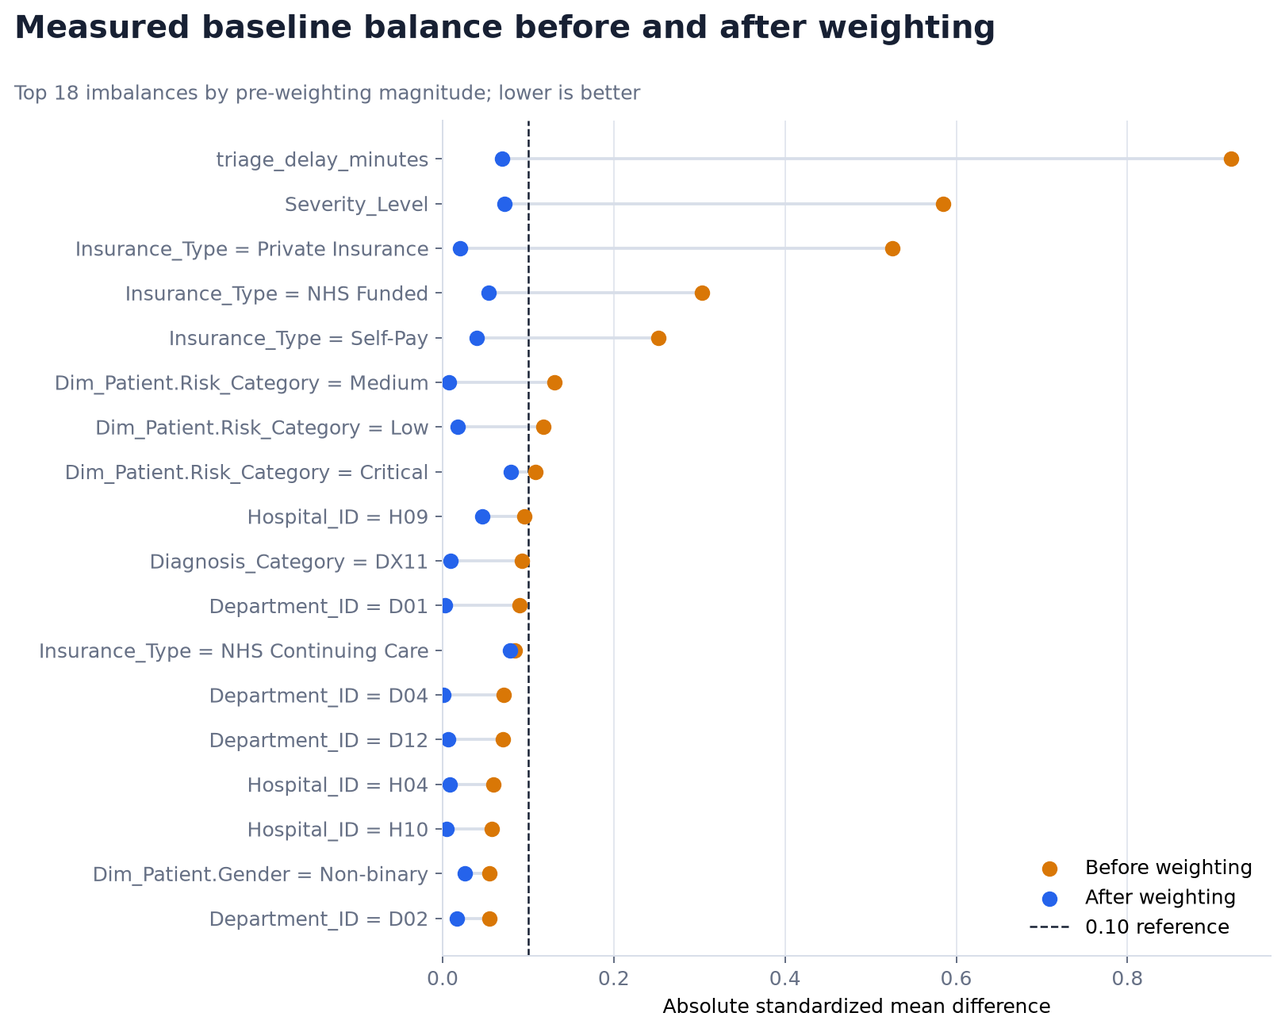
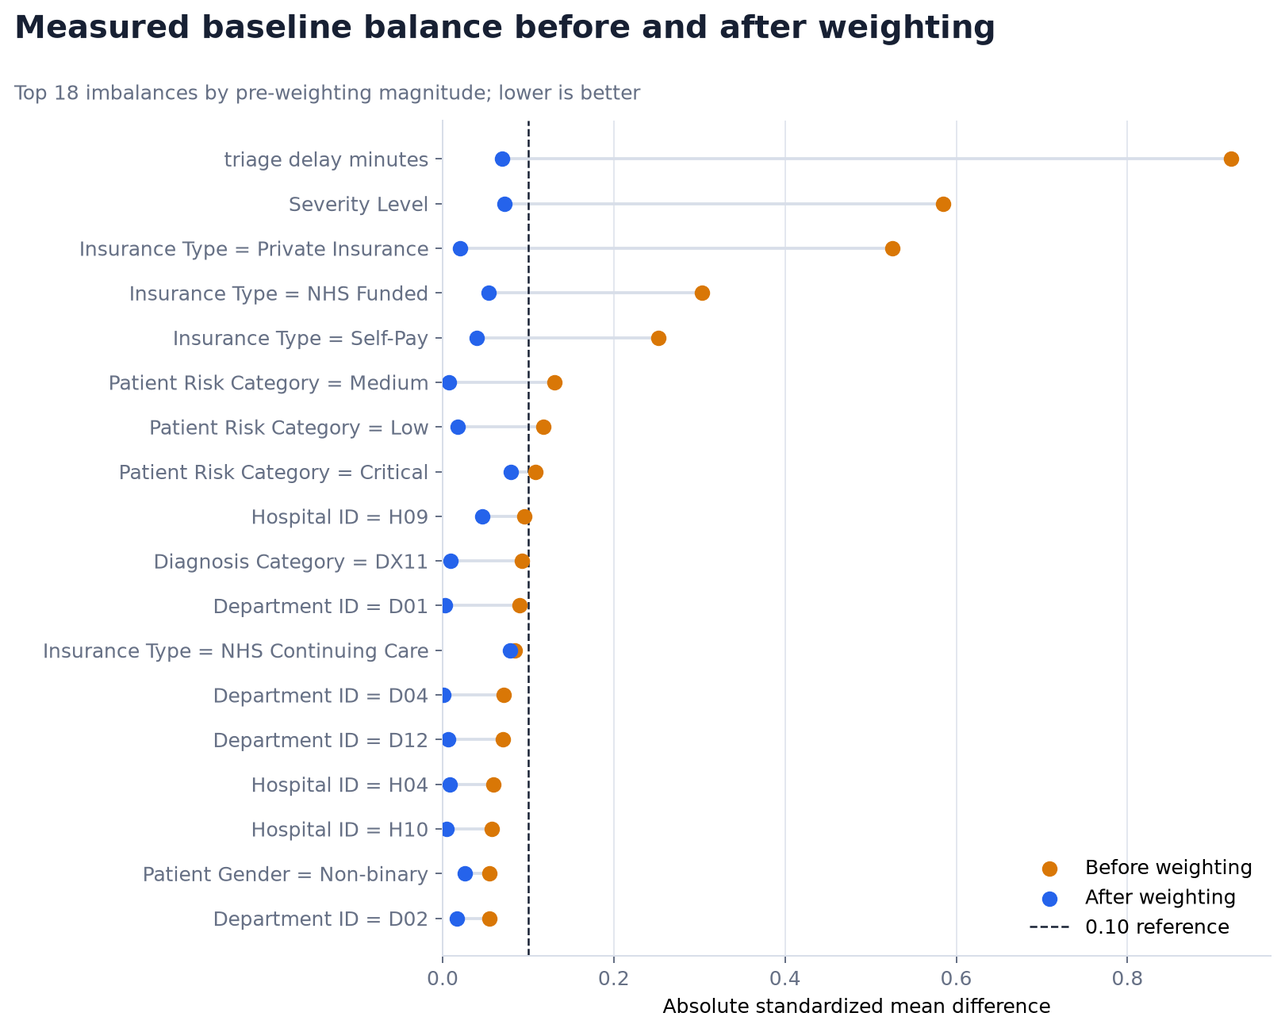
Present findings with an SCQA stakeholder story
Restructure the README as an answer-first stakeholder brief and add improved, reproducible visual evidence.

diff --git a/analysis.py b/analysis.py
@@ -412,6 +412,102 @@ def plot_story_overview(data: pd.DataFrame, cohort: pd.DataFrame, threshold: int
     plt.close(figure)
 
 
+def plot_severity_mechanism(data: pd.DataFrame, threshold: int, output_path: Path) -> None:
+    """Show why the pooled delay comparison is confounded by severity."""
+    frame = data.copy()
+    frame["delay_group"] = np.where(
+        frame["Treatment_Delay_Minutes"].ge(threshold),
+        f"≥ {threshold} min",
+        f"< {threshold} min",
+    )
+    delay_order = [f"< {threshold} min", f"≥ {threshold} min"]
+    severity_order = sorted(frame["Severity_Level"].dropna().unique())
+
+    mortality = (
+        frame.groupby("Severity_Level")["Mortality_Flag"]
+        .mean()
+        .mul(100)
+        .reindex(severity_order)
+    )
+    severity_mix = (
+        frame.groupby(["delay_group", "Severity_Level"], observed=True)
+        .size()
+        .unstack(fill_value=0)
+        .reindex(index=delay_order, columns=severity_order, fill_value=0)
+    )
+    severity_mix = severity_mix.div(severity_mix.sum(axis=1), axis=0).mul(100)
+
+    severity_colors = ["#DBEAFE", "#BFDBFE", "#93C5FD", "#60A5FA", "#2563EB"]
+    figure, axes = plt.subplots(1, 2, figsize=(11, 5.6), gridspec_kw={"width_ratios": [0.9, 1.25]})
+
+    bars = axes[0].bar(
+        np.arange(len(severity_order)),
+        mortality.to_numpy(),
+        color=BLUE,
+        edgecolor=INK,
+        linewidth=0.5,
+    )
+    axes[0].set_xticks(np.arange(len(severity_order)), [str(int(value)) for value in severity_order])
+    axes[0].set_xlabel("Severity level")
+    axes[0].set_ylabel("Observed mortality rate (%)")
+    axes[0].set_ylim(0, mortality.max() * 1.25)
+    for bar, value in zip(bars, mortality):
+        axes[0].text(
+            bar.get_x() + bar.get_width() / 2,
+            value + mortality.max() * 0.025,
+            f"{value:.1f}%",
+            ha="center",
+            fontsize=9,
+            color=INK,
+        )
+    axes[0].set_title("Mortality by severity", loc="left", fontsize=12, fontweight="bold")
+    style_axis(axes[0])
+
+    bottom = np.zeros(len(delay_order))
+    for level, color in zip(severity_order, severity_colors):
+        values = severity_mix[level].to_numpy()
+        bars = axes[1].bar(
+            np.arange(len(delay_order)),
+            values,
+            bottom=bottom,
+            label=f"Level {int(level)}",
+            color=color,
+            edgecolor="white",
+            linewidth=0.7,
+        )
+        for bar, value, base in zip(bars, values, bottom):
+            if value >= 7:
+                axes[1].text(
+                    bar.get_x() + bar.get_width() / 2,
+                    base + value / 2,
+                    f"{value:.0f}%",
+                    ha="center",
+                    va="center",
+                    fontsize=8,
+                    color=INK if level <= 3 else "white",
+                    fontweight="bold",
+                )
+        bottom += values
+
+    axes[1].set_xticks(np.arange(len(delay_order)), delay_order)
+    axes[1].set_xlabel("Treatment-delay group")
+    axes[1].set_ylabel("Share of visits within group (%)")
+    axes[1].set_ylim(0, 100)
+    axes[1].set_title("Severity composition by delay", loc="left", fontsize=12, fontweight="bold")
+    axes[1].legend(title="Severity", ncol=5, frameon=False, loc="upper center", bbox_to_anchor=(0.5, 1.00), fontsize=8)
+    style_axis(axes[1])
+    axes[1].grid(axis="x", visible=False)
+
+    add_figure_title(
+        figure,
+        "Severity, mortality, and treatment timing",
+        f"All {len(frame):,} visits; higher-severity visits have higher mortality and are concentrated below {threshold} minutes",
+    )
+    figure.subplots_adjust(top=0.78, left=0.08, right=0.98, bottom=0.13, wspace=0.30)
+    figure.savefig(output_path, dpi=180, bbox_inches="tight", facecolor="white")
+    plt.close(figure)
+
+
 def plot_balance(balance: pd.DataFrame, output_path: Path, top_n: int = 18) -> None:
     display = balance.head(top_n).sort_values("abs_smd_before", ascending=True)
     figure, axis = plt.subplots(figsize=(10, 7.5))
@@ -420,7 +516,12 @@ def plot_balance(balance: pd.DataFrame, output_path: Path, top_n: int = 18) -> N
     axis.scatter(display["abs_smd_before"], y, color=ORANGE, s=46, label="Before weighting", zorder=3)
     axis.scatter(display["abs_smd_after"], y, color=BLUE, s=46, label="After weighting", zorder=3)
     axis.axvline(0.10, color=INK, linewidth=1, linestyle="--", label="0.10 reference")
-    axis.set_yticks(y, display["feature"])
+    readable_labels = (
+        display["feature"]
+        .str.replace("Dim_Patient.", "Patient ", regex=False)
+        .str.replace("_", " ", regex=False)
+    )
+    axis.set_yticks(y, readable_labels)
     axis.set_xlabel("Absolute standardized mean difference")
     axis.set_xlim(left=0)
     axis.legend(frameon=False, loc="lower right")
@@ -438,7 +539,7 @@ def plot_balance(balance: pd.DataFrame, output_path: Path, top_n: int = 18) -> N
 
 
 def plot_effect(primary: Estimate, output_path: Path) -> None:
-    labels = ["Crude risk difference", "Cross-fitted AIPW"]
+    labels = ["Crude risk difference", "Adjusted estimate (AIPW)"]
     values = np.array([primary.crude_risk_difference, primary.adjusted_risk_difference]) * 100
     low = np.array([np.nan, primary.ci_low]) * 100
     high = np.array([np.nan, primary.ci_high]) * 100
@@ -469,7 +570,7 @@ def plot_effect(primary: Estimate, output_path: Path) -> None:
     add_figure_title(
         figure,
         "Mortality risk difference in low-severity visits",
-        f"High delay is ≥{primary.threshold_minutes} minutes; AIPW interval uses patient-clustered influence curves",
+        f"Severity levels 1–3; high delay is ≥{primary.threshold_minutes} minutes; horizontal interval is the 95% CI",
     )
     figure.subplots_adjust(top=0.82, left=0.27, right=0.96, bottom=0.20)
     figure.savefig(output_path, dpi=180, bbox_inches="tight", facecolor="white")
@@ -607,6 +708,7 @@ def run_analysis(
     )
 
     plot_story_overview(data, cohort, threshold, figures_dir / "01_crude_mortality_reversal.png")
+    plot_severity_mechanism(data, threshold, figures_dir / "02_severity_mechanism.png")
     plot_balance(primary_balance, figures_dir / "02_covariate_balance.png")
     plot_effect(primary, figures_dir / "03_effect_estimate.png")
     plot_sensitivity(estimates, figures_dir / "04_threshold_sensitivity.png")

diff --git a/README.md b/README.md
@@ -1,63 +1,120 @@
-# Treatment delay and mortality in low-severity ED visits
+# Long treatment delays deserve attention—but 160 minutes is not a proven mortality threshold
 
-An observational causal-inference project that asks a deceptively simple question:
+**Stakeholder brief | 9,994 emergency-department visits | January 2024–December 2025**
 
-> Among emergency-department visits with severity levels 1–3, how does mortality differ when treatment starts at least 160 minutes after triage rather than sooner?
+## Executive Summary
 
-![Crude mortality reverses after restricting to low-severity visits](figures/01_crude_mortality_reversal.png)
+- **The operational signal warrants attention.** Among 5,216 low-severity visits, the adjusted analysis estimates **0.66 additional deaths per 100 visits** when treatment begins at or after 160 minutes rather than sooner.
+- **The evidence is not conclusive.** The 95% confidence interval ranges from **0.89 fewer to 2.22 additional deaths per 100 visits**, so the data remain compatible with no effect.
+- **The raw dashboard comparison is misleading.** Across all visits, longer delay appears safer because the sickest patients are treated sooner. This is a practical example of Simpson's paradox.
+- **Recommended decision:** monitor and reduce avoidable low-severity delays while validating the finding with better operational data. Do **not** treat 160 minutes as a clinically proven cutoff or use this analysis alone to change patient care.
 
-## The story in one minute
+## Situation — ED leaders need to understand whether long waits create avoidable risk
 
-The full dataset appears to tell a reassuring story: mortality is lower in the high-delay group (2.67% versus 3.40%). That comparison is misleading because patients treated sooner are much more severely ill.
+Treatment cannot always begin immediately, and emergency departments must prioritize the most urgent patients. The decision problem is therefore not “should every patient be treated in arrival order?” It is narrower:
 
-After restricting the question to 5,216 low-severity visits, the crude relationship reverses: mortality is 2.40% at or above 160 minutes versus 1.85% below 160 minutes. A cross-fitted augmented inverse probability weighted (AIPW) model estimates an adjusted risk difference of **+0.66 percentage points**, with a **95% confidence interval from −0.89 to +2.22 points**.
+> For patients already classified as low severity, is a long treatment delay associated with higher mortality after accounting for the factors that influence who waits?
 
-The point estimate is compatible with higher mortality under longer delay, but the interval also includes no effect and modest benefit. The evidence is therefore **hypothesis-generating, not conclusive**.
+The dataset covers 9,994 visits across 2024 and 2025. The primary analysis focuses on 5,216 visits at severity levels 1–3 and compares treatment starting **before 160 minutes** with treatment starting **at or after 160 minutes**. The 160-minute threshold is an operational scenario, not a validated clinical standard.
 
-## Why this project matters
+## Complication — the pooled average tells the wrong story
 
-This is a practical example of Simpson's paradox and the limits of observational causal inference. When deliberately assigning harmful delays would make an RCT unethical or impractical, causal methods can emulate a clearly defined intervention contrast from observed data. They do not recreate randomization: the result remains conditional on measured confounding, overlap, consistency, and correct time ordering.
+Across all visits, mortality appears *lower* in the high-delay group: **2.67% versus 3.40%**. After defining the low-severity population, the relationship reverses: mortality is **2.40% with high delay versus 1.85% with lower delay**.
 
-The most valuable result is not a dramatic causal claim; it is a transparent workflow that:
+![Observed mortality by treatment-delay group in all visits and the low-severity cohort](figures/01_crude_mortality_reversal.png)
 
-1. defines the low-severity cohort before modeling;
-2. separates pre-treatment covariates from downstream outcomes;
-3. uses propensity scores inside a doubly robust AIPW estimator;
-4. cross-fits propensity and outcome models by patient;
-5. reports balance, overlap, effective sample size, and extreme weights;
-6. keeps uncertainty and unmeasured confounding visible.
+*How to read this:* the left-hand comparison mixes patients with very different baseline risk. The right-hand comparison answers a narrower and more relevant operational question. The reversal is a warning that the overall average should not guide a delay policy.
 
-## Main results
+Severity explains much of the contradiction. Mortality rises sharply across severity levels, while visits at levels 4–5 are concentrated in the shorter-delay group. Faster treatment therefore inherits more high-risk patients, making the pooled shorter-delay mortality rate look worse.
 
-| Measure | Result |
-|---|---:|
-| Eligible visits / unique patients | 5,216 / 5,139 |
-| High-delay visits / deaths | 998 / 24 |
-| Lower-delay visits / deaths | 4,218 / 78 |
-| Crude mortality risk difference | +0.56 percentage points |
-| Adjusted AIPW risk difference | +0.66 percentage points |
-| 95% confidence interval | −0.89 to +2.22 percentage points |
-| Maximum absolute SMD, before / after weighting | 0.921 / 0.100 |
-| Propensities clipped to [0.01, 0.99] | 14 |
-| 99th percentile / maximum IPTW | 14.53 / 100.00 |
+![Mortality by severity and severity composition by treatment-delay group](figures/02_severity_mechanism.png)
 
-![Adjusted mortality risk difference](figures/03_effect_estimate.png)
+*So what:* descriptive statistics identify the bias but cannot remove it. A causal framework is needed to compare visits that were similar before treatment timing was determined.
 
-## Method
+## Question — would high delay increase mortality among comparable low-severity visits?
 
-- **Design:** observational visit-level cohort analysis covering 2024-01-01 through 2025-12-31.
-- **Population:** severity levels 1–3 with complete exposure, outcome, patient ID, and baseline covariates.
-- **Exposure:** treatment delay at or above 160 minutes versus below 160 minutes.
-- **Outcome:** in-visit mortality flag.
-- **Estimand:** average mortality risk difference in the eligible cohort.
-- **Adjustment:** cross-fitted AIPW with regularized logistic nuisance models and five patient-grouped folds.
-- **Uncertainty:** influence-curve standard error clustered by patient.
-- **Diagnostics:** standardized mean differences, propensity range and clipping, inverse-probability weight distribution, and effective sample size.
-- **Sensitivity:** the analysis is repeated at 120-, 160-, and 200-minute thresholds.
+The working hypothesis is:
 
-Start with the [storytelling notebook](notebooks/low_severity_delay_causal_analysis.ipynb) for the EDA, Simpson's paradox, RCT motivation, propensity scores, and doubly robust estimate. See [methodology.md](reports/methodology.md) for the full specification and [validation_report.md](reports/validation_report.md) for the quality review.
+> Among otherwise comparable severity 1–3 visits, starting treatment at or after 160 minutes increases in-visit mortality risk relative to starting sooner.
 
-## Reproduce the analysis
+| Decision element | Definition |
+|---|---|
+| Population | Severity levels 1–3 with complete required baseline data |
+| Exposure | Treatment delay ≥160 minutes versus <160 minutes |
+| Outcome | In-visit mortality |
+| Primary measure | Average mortality risk difference in the eligible cohort |
+| Comparison period | January 1, 2024–December 31, 2025 |
+
+An RCT would provide the strongest protection against confounding, but deliberately assigning harmful delays may be unethical or infeasible. This study instead emulates a defined intervention contrast from observational data. It cannot reproduce randomization and remains dependent on measured covariates and causal assumptions.
+
+## Evidence — adjustment preserves the risk signal, but uncertainty remains substantial
+
+### 1. Propensity weighting made the observed groups more comparable
+
+A propensity score estimates each visit's probability of experiencing high delay from information available before treatment. The analysis combines these scores with mortality outcome models in a **doubly robust AIPW estimator** and generates predictions out of sample using patient-grouped cross-fitting.
+
+Before weighting, eight measured features exceeded the conventional absolute standardized mean difference threshold of 0.10. After weighting, only one remained at that boundary; the maximum imbalance fell from **0.921 to 0.100**.
+
+![Measured baseline balance before and after propensity weighting](figures/02_covariate_balance.png)
+
+*How to read this:* dots moving toward zero indicate that high- and lower-delay visits became more comparable on measured baseline characteristics. This improves the comparison, but it cannot balance factors that were not recorded.
+
+### 2. The adjusted point estimate indicates possible harm, not proof
+
+The crude mortality difference in the low-severity cohort is **+0.56 percentage points**. After doubly robust adjustment, the estimate is **+0.66 percentage points**. The adjusted interval crosses zero: **−0.89 to +2.22 percentage points**.
+
+![Crude and adjusted mortality risk differences with uncertainty](figures/03_effect_estimate.png)
+
+*How to read this:* values to the right of zero indicate higher mortality under high delay. The adjusted point lies to the right, but its confidence interval spans both sides of zero. The estimated direction is concerning; its magnitude is not precise enough for a definitive causal claim.
+
+### 3. The direction is similar across thresholds, while precision deteriorates
+
+Adjusted point estimates remain positive at 120, 160, and 200 minutes, but every confidence interval includes zero. The 200-minute estimate is especially imprecise because fewer visits support that comparison.
+
+![Adjusted mortality estimates across treatment-delay thresholds](figures/04_threshold_sensitivity.png)
+
+*So what:* the finding is not unique to one cutoff, but the sensitivity analysis does not establish a safe or harmful threshold. It supports continued investigation rather than a binary 160-minute rule.
+
+## Answer — manage the operational risk and strengthen the evidence
+
+The most defensible stakeholder conclusion is:
+
+> Longer delays may increase mortality among low-severity ED visits, but this dataset does not establish that 160 minutes is a causal threshold. Reduce avoidable delay as a process-quality objective and collect the evidence needed for a decision-grade estimate.
+
+Recommended next steps:
+
+1. **Create a delay early-warning view.** Monitor median and 90th-percentile treatment delay by severity, hospital, department, and week; flag sustained movement toward 160 minutes before it becomes routine.
+2. **Diagnose the treatment-start process.** Examine staffing coverage, queue transitions, room availability, handoffs, and whether lower-severity visits are unintentionally deprioritized after triage.
+3. **Measure the missing confounders.** Add crowding, occupancy, staffing ratios, shift, day of week, arrival volume, and clinician-assessed urgency before re-estimating the effect.
+4. **Evaluate operational improvements prospectively.** Predefine the cohort, outcomes, and estimand, then assess a feasible process intervention using a stepped rollout, interrupted time series, or another ethically appropriate design.
+5. **Use mortality as a guardrail, not a weekly performance KPI.** Deaths are rare in this cohort; pair mortality with timelier process and safety outcomes while aggregating mortality over a stable review window.
+
+## Further questions stakeholders should resolve
+
+- Does the source data dictionary confirm that severity levels 1–3 are the intended low-severity population?
+- Why was 160 minutes selected, and is there an external clinical or service-level benchmark?
+- Do results persist after adding crowding, staffing, shift, and calendar-time measures?
+- Which hospitals, departments, or time periods drive extreme propensity weights and residual imbalance?
+- Would an operational intervention reduce delay without shifting risk to higher-severity patients?
+
+## Caveats and assumptions
+
+- The workbook's provenance, generation process, de-identification status, and public-use license have not been independently verified; raw data are excluded from this repository.
+- Treatment timing was not randomized. AIPW addresses measured confounding only under consistency, positivity, correct time ordering, model adequacy, and no important unmeasured confounding.
+- Mortality is rare in the eligible cohort: 102 deaths across 5,216 visits. This produces wide confidence intervals.
+- Some propensities are near one: 14 values were clipped to `[0.01, 0.99]`, the 99th-percentile weight was 14.53, and the maximum weight was 100.
+- Calendar time, staffing, crowding, and other operational conditions are not fully measured in the available model table.
+
+## Analysis resources
+
+- [Storytelling notebook](notebooks/low_severity_delay_causal_analysis.ipynb) — executable EDA, Simpson's paradox, propensity scores, and doubly robust estimation
+- [Methodology](reports/methodology.md) — estimand, cohort, covariates, assumptions, and uncertainty
+- [Validation report](reports/validation_report.md) — implementation issues corrected and remaining limitations
+- [Results snapshot](reports/results.md) — aggregate numerical results
+- [Chart map](reports/chart_map.md) — visual evidence and design rationale
+
+<details>
+<summary><strong>Reproduce the analysis</strong></summary>
 
 ```bash
 python -m venv .venv
@@ -73,37 +130,25 @@ python analysis.py --input data/raw/mortality.xlsx
 python -m unittest discover -s tests -v
 ```
 
-The script rewrites the aggregate files in `results/`, the four figures in `figures/`, and [results.md](reports/results.md). It does not export row-level patient data.
+The script regenerates aggregate results and figures without exporting row-level patient data.
 
-## Repository map
+</details>
+
+<details>
+<summary><strong>Repository structure</strong></summary>
 
 ```text
 .
-├── analysis.py                 # complete reproducible analysis
-├── data/
-│   ├── README.md               # data contract and publication safeguards
-│   └── raw/                    # ignored by Git
-├── figures/                    # publication-ready aggregate charts
-├── notebooks/
-│   └── low_severity_delay_causal_analysis.ipynb
-├── reports/
-│   ├── methodology.md          # estimand, models, assumptions, diagnostics
-│   ├── results.md              # generated results snapshot
-│   ├── validation_report.md    # issues fixed and remaining caveats
-│   └── chart_map.md            # visual design and evidence map
+├── analysis.py                 # reproducible causal analysis
+├── data/                       # data contract; raw workbook ignored by Git
+├── figures/                    # aggregate stakeholder visuals
+├── notebooks/                  # executed storytelling notebook
+├── reports/                    # methods, results, validation, chart map
 ├── results/                    # machine-readable aggregate outputs
 └── tests/                      # deterministic utility tests
 ```
 
-## Limitations
-
-- The workbook's provenance, generation process, de-identification status, and public-use license have not been independently verified. Raw data are therefore excluded.
-- The 160-minute threshold is an operational choice, not a validated clinical cutoff.
-- Treatment timing is not randomized. AIPW only addresses measured confounding under its assumptions.
-- Calendar time, staffing, crowding, and other operational factors are not fully measured in the model table.
-- Some estimated propensities are near one, producing large weights and sensitivity to model specification.
-- Mortality is rare in the eligible cohort (102 deaths), so confidence intervals are wide.
-- Severity numbering is interpreted from the observed monotonic mortality pattern and project context; the source data dictionary should confirm that levels 1–3 are the intended low-severity group.
+</details>
 
 ## References
 
@@ -112,6 +157,4 @@ The script rewrites the aggregate files in `results/`, the four figures in `figu
 - Austin PC, Stuart EA. [Moving towards best practice when using inverse probability of treatment weighting](https://pmc.ncbi.nlm.nih.gov/articles/PMC4626409/)
 - Zhong Y, et al. [AIPW: augmented inverse probability-weighted estimation of average causal effects](https://pmc.ncbi.nlm.nih.gov/articles/PMC8796813/)
 
-## Responsible use
-
-This repository is an analytical portfolio project, not clinical guidance. Do not use its estimates for patient-care or operational decisions without validating the source data, clinical definitions, causal assumptions, and model specification with domain experts.
+> **Responsible use:** This repository is an analytical portfolio project, not clinical guidance. Validate the source data, clinical definitions, causal assumptions, and model specification with domain experts before using the findings for patient-care or operational decisions.

diff --git a/reports/chart_map.md b/reports/chart_map.md
@@ -3,9 +3,9 @@
 | Figure | Analytical question | Form | Evidence and takeaway | Palette and non-color distinction |
 |---|---|---|---|---|
 | `01_crude_mortality_reversal.png` | Does the crude comparison change after defining the low-severity cohort? | Grouped bar | Four aggregate rates; the direction reverses after cohort restriction. | Blue/orange, direct value labels, axis categories, zero baseline. |
+| `02_severity_mechanism.png` | Why does the pooled delay comparison mislead? | Bar plus 100% stacked bar | Mortality rises with severity, while higher-severity visits are concentrated in the shorter-delay group. | Ordered blue shades, direct labels, explicit within-group denominator. |
 | `02_covariate_balance.png` | Did weighting reduce measured baseline imbalance? | Paired dot / Love plot | Top 18 pre-weighting absolute SMDs; most move below 0.10. | Orange before, blue after, connecting rules, dashed 0.10 reference. |
 | `03_effect_estimate.png` | What are the crude and adjusted risk differences, and how uncertain is the adjusted estimate? | Dot and interval | Crude point plus AIPW point and 95% interval; adjusted interval crosses zero. | Orange crude, blue adjusted, direct labels, dark zero reference. |
 | `04_threshold_sensitivity.png` | How does the adjusted estimate change across operational cutoffs? | Ordered dot and interval | AIPW estimates and 95% intervals at 120, 160, and 200 minutes. | Single blue root, exact labels, dark zero reference. |
 
 All figures are static Matplotlib PNGs generated by `analysis.py`, use aggregate data only, and are visually checked in their exported form.
-
